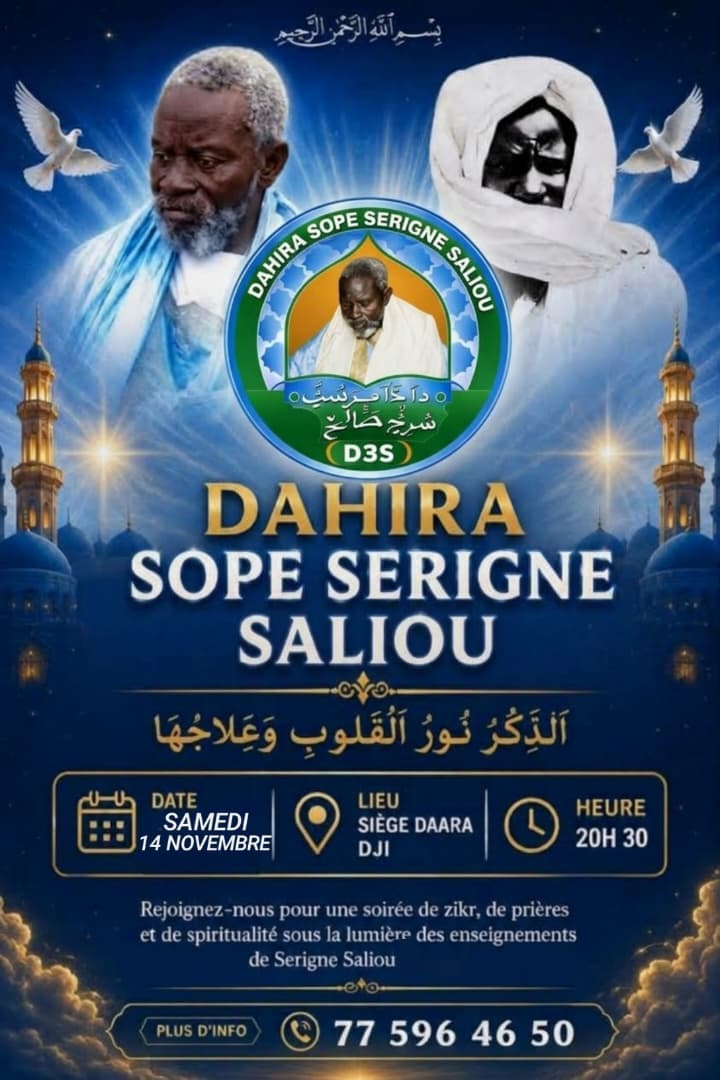
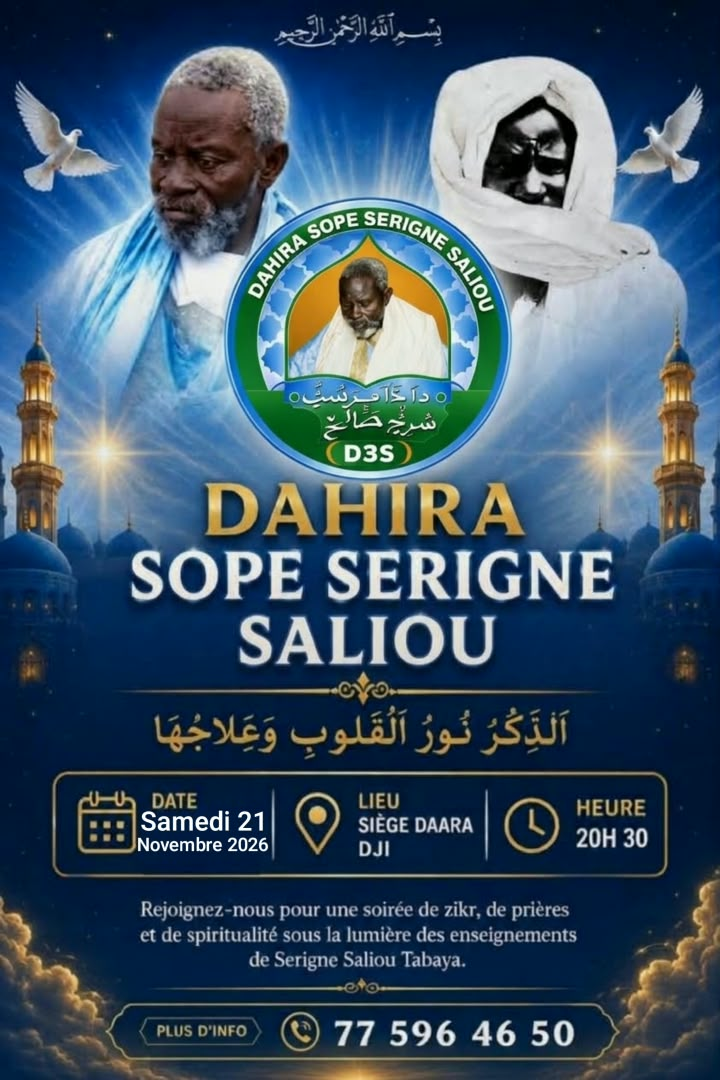
Mise a jour du site ajoute des programmes a venir, dahira, thiante, sass

diff --git a/index.html b/index.html
@@ -3088,7 +3088,7 @@
                         </div>
                     </div>
                     
-                    <!-- SLIDE 2 : Grand Magal De Mbacké Kadior 
+                    <!-- SLIDE 2 : Thiante Annuelle Du Dahira Sope Serigne Saliou (2026) -->
                     <div class="countdown-slide">
                         <div class="countdown-card">
                             <div class="countdown-badge">
@@ -3101,15 +3101,15 @@
                                     <i class="fas fa-star-and-crescent"></i>
                                 </div>
                                 <div class="countdown-title-block">
-                                    <h3 class="countdown-event-title">Grand Magal De Mbacké Kadior</h3>
+                                    <h3 class="countdown-event-title">Thiante Annuelle Dahira Sope Serigne Saliou (2026)</h3>
                                     <p class="countdown-event-date">
                                         <i class="far fa-calendar-alt"></i>
-                                        <span class="event-date-display" data-event-date="2026-11-09T00:00:00">Chargement...</span>
+                                        <span class="event-date-display" data-event-date="2026-12-26T19:00:00">Chargement...</span>
                                     </p>
                                 </div>
                             </div>
 
-                            <div class="countdown-timer" data-event-date="2026-11-09T00:00:00">
+                            <div class="countdown-timer" data-event-date="2026-12-26T19:00:00">
                                 <div class="countdown-unit">
                                     <span class="countdown-value cd-days">00</span>
                                     <span class="countdown-label">Jours</span>
@@ -3135,7 +3135,7 @@
                                 </a>
                             </div>
                         </div>
-                    </div>-->
+                    </div>
 
                     <!-- SLIDE 2 : Dahira du Samedi -->
                     <div class="countdown-slide">
@@ -3153,12 +3153,12 @@
                                     <h3 class="countdown-event-title">Prochain Dahira du Samedi</h3>
                                     <p class="countdown-event-date">
                                         <i class="far fa-calendar-alt"></i>
-                                        <span class="event-date-display" data-event-date="2026-11-14T20:30:00">Chargement...</span>
+                                        <span class="event-date-display" data-event-date="2026-11-21T20:30:00">Chargement...</span>
                                     </p>
                                 </div>
                             </div>
 
-                            <div class="countdown-timer" data-event-date="2026-11-14T20:30:00">
+                            <div class="countdown-timer" data-event-date="2026-11-21T20:30:00">
                                 <div class="countdown-unit">
                                     <span class="countdown-value cd-days">00</span>
                                     <span class="countdown-label">Jours</span>
@@ -3176,7 +3176,7 @@
                             <div class="countdown-cta">
                                 <p class="countdown-cta-text">
                                     <i class="fas fa-map-marker-alt"></i>
-                                    Dialegne - Kaolack
+                                    Dialegne - Kaolack Siege de la Dahira
                                 </p>
                                 <a href="#evenements" class="countdown-cta-btn">
                                     Plus d'infos
@@ -3199,7 +3199,7 @@
 
             <div class="countdown-dots" id="countdownDots">
                 <button class="countdown-dot active" data-slide="0" aria-label="Événement 1"></button>
-                <!--<button class="countdown-dot" data-slide="1" aria-label="Événement 2"></button>-->
+                <button class="countdown-dot" data-slide="1" aria-label="Événement 2"></button>
                 <button class="countdown-dot" data-slide="2" aria-label="Événement 3"></button>
             </div>
         </div>
@@ -3330,7 +3330,7 @@
                         <div class="card border-0 shadow-sm h-100 article-card" style="border-radius: 16px; overflow: hidden;">
                             <img src="images/siege1.jpeg" alt="Siège du Dahira" loading="lazy">
                             <div class="date-badge">
-                                <strong>14</strong>
+                                <strong>21</strong>
                                 <span>Nov</span>
                             </div>
                             <span class="badge-category">Dahira</span>
@@ -3339,6 +3339,24 @@
                             <h5 class="h6 mb-3 fw-bold">Siège du Dahira</h5>
                             <p class="small text-muted mb-2"><i class="fas fa-map-marker-alt me-2 text-gold"></i>Dialegne - Kaolack</p>
                             <p class="small text-muted mb-0"><i class="fas fa-clock me-2 text-gold"></i>À partir de 20h30</p>
+                        </div>
+                    </div>
+                </div>
+
+                <div class="col-12 col-sm-6 col-lg-3" data-aos="fade-up" data-aos-delay="100">
+                    <div class="event-card">
+                        <div class="card border-0 shadow-sm h-100 article-card" style="border-radius: 16px; overflow: hidden;">
+                            <img src="images/thiante.jpeg" alt="Thiante" loading="lazy">
+                            <div class="date-badge">
+                                <strong>26</strong>
+                                <span>Déc</span>
+                            </div>
+                            <span class="badge-category">Dahira</span>
+                        </div>
+                        <div class="p-3 p-md-4">
+                            <h5 class="h6 mb-3 fw-bold">Thiante Annuelle D3S</h5>
+                            <p class="small text-muted mb-2"><i class="fas fa-map-marker-alt me-2 text-gold"></i>Dialegne - Kaolack</p>
+                            <p class="small text-muted mb-0"><i class="fas fa-clock me-2 text-gold"></i>À partir de 19h00</p>
                         </div>
                     </div>
                 </div>
@@ -3359,6 +3377,16 @@
                         <a href="#" class="text-success text-decoration-none small fw-bold d-none d-md-block">Voir tous <i class="fas fa-arrow-right ms-1"></i></a>
                     </div>
                     <div class="row g-3 g-md-4">
+                        <div class="col-12 col-sm-6 col-md-4" data-aos="fade-up" data-aos-delay="200">
+                            <article class="card border-0 shadow-sm h-100 article-card" style="border-radius: 16px; overflow: hidden;">
+                                <div class="article-img-wrapper">
+                                    <img src="images/sass.jpeg" alt="Sass" loading="lazy">
+                                </div>
+                                <div class="card-body p-3 p-md-4">
+                                    <small class="text-gold fw-bold" style="font-size: 0.68rem; letter-spacing: 1px;">En cours</small>
+                                </div>
+                            </article>
+                        </div>
                         <div class="col-12 col-sm-6 col-md-4" data-aos="fade-up" data-aos-delay="100">
                             <article class="card border-0 shadow-sm h-100 article-card" style="border-radius: 16px; overflow: hidden;">
                                 <div class="article-img-wrapper">
@@ -3369,16 +3397,6 @@
                                 </div>
                             </article>
                         </div>
-                        <!--<div class="col-12 col-sm-6 col-md-4" data-aos="fade-up" data-aos-delay="200">
-                            <article class="card border-0 shadow-sm h-100 article-card" style="border-radius: 16px; overflow: hidden;">
-                                <div class="article-img-wrapper">
-                                    <img src="images/ac2.jpeg" alt="Ngontou Xassida" loading="lazy">
-                                </div>
-                                <div class="card-body p-3 p-md-4">
-                                    <small class="text-gold fw-bold" style="font-size: 0.68rem; letter-spacing: 1px;">30 OCT 2026</small>
-                                </div>
-                            </article>
-                        </div>-->
                         <div class="col-12 col-sm-6 col-md-4" data-aos="fade-up" data-aos-delay="300">
                             <article class="card border-0 shadow-sm h-100 article-card" style="border-radius: 16px; overflow: hidden;">
                                 <div class="article-img-wrapper">
